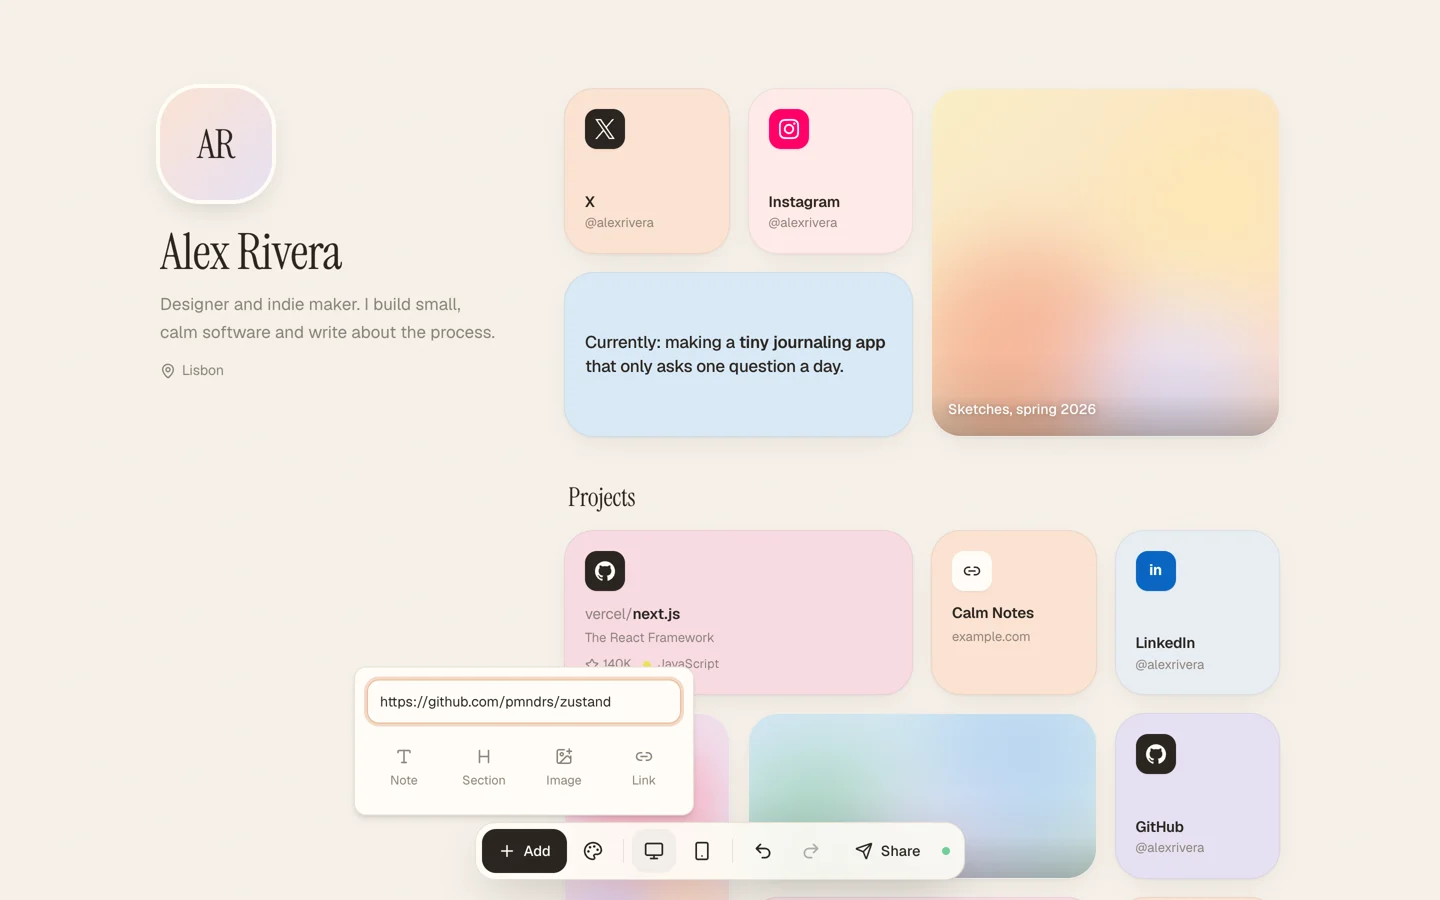
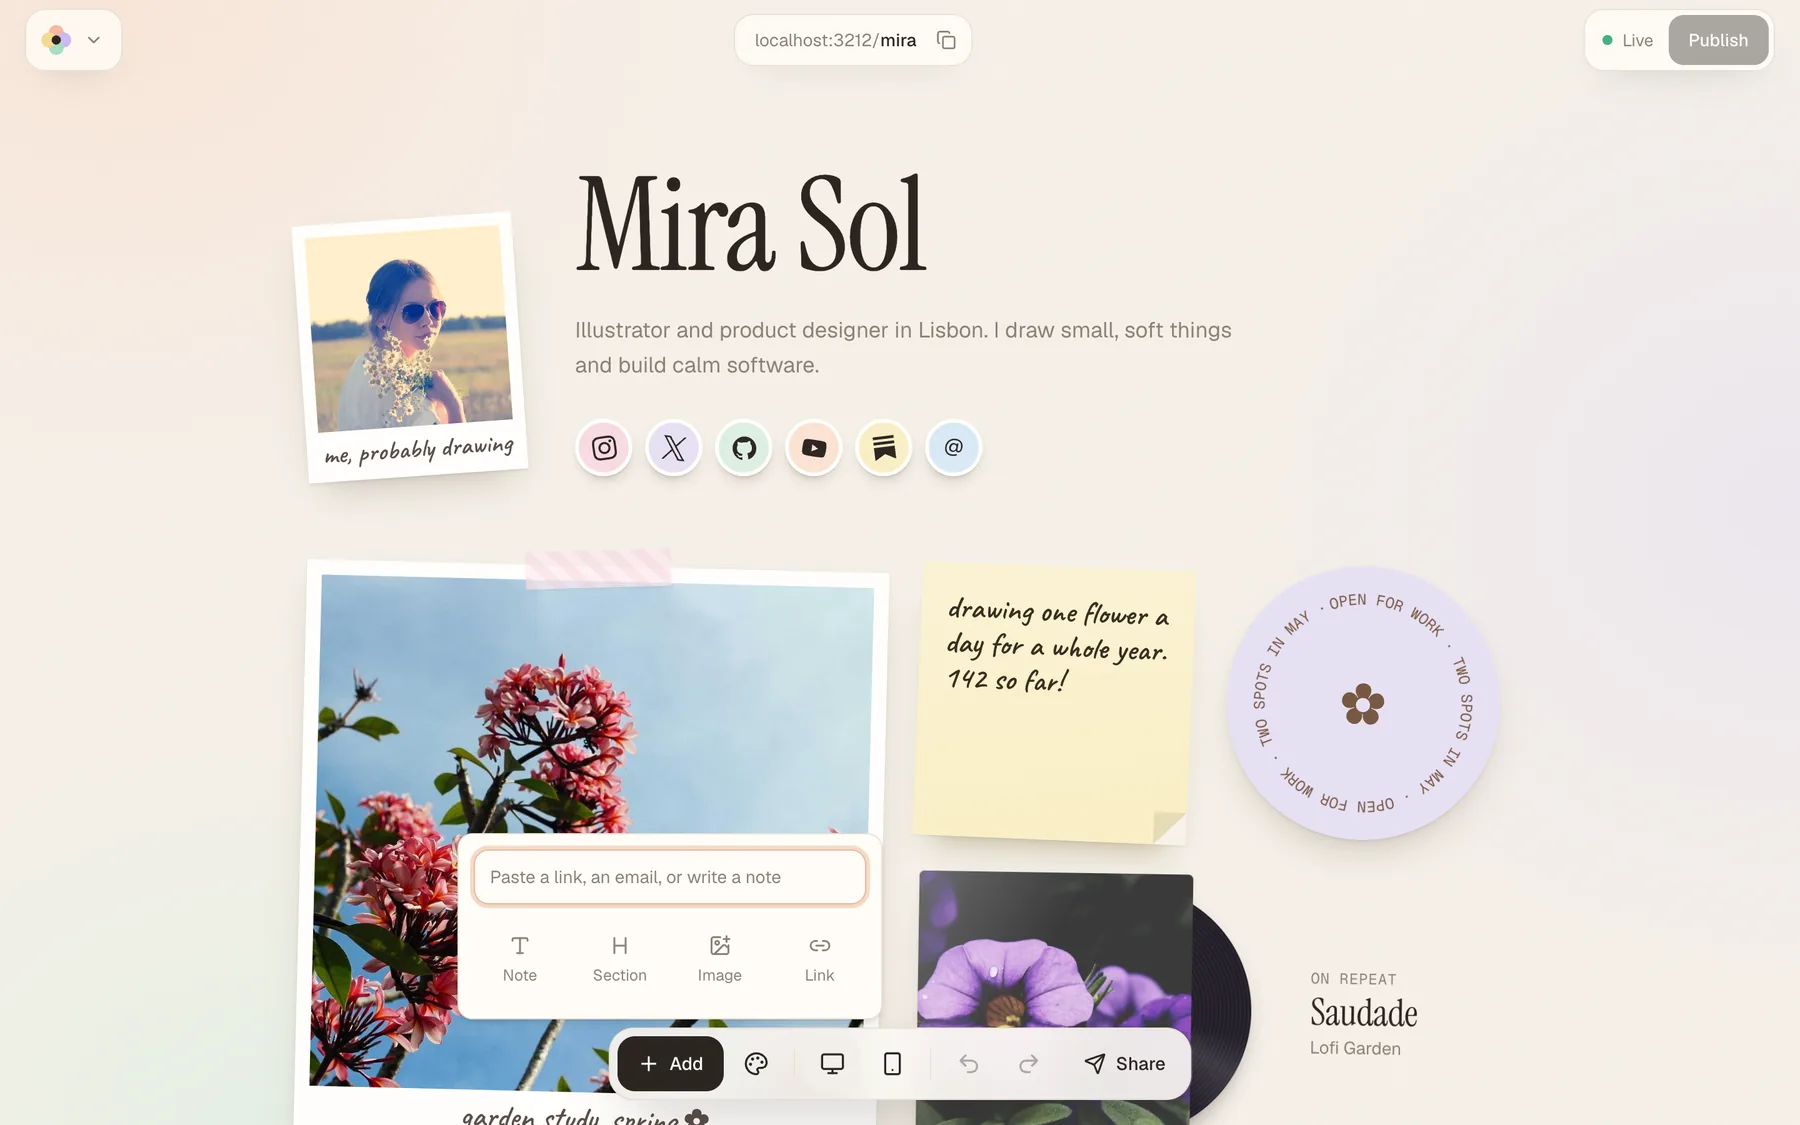
Refresh README screenshots with the desk design

diff --git a/README.md b/README.md
@@ -1,5 +1,5 @@
 <p align="center">
-  <img src="docs/media/hero.webp" alt="A Posy page: profile on the left, pastel tiles on the right" width="900">
+  <img src="docs/media/hero.webp" alt="A Posy desk page: a polaroid, a sticky note, a stamp and a record on a soft pastel desk" width="900">
 </p>
 
 <h1 align="center">Posy</h1>
@@ -20,7 +20,7 @@ and you can export your whole page as JSON at any time.
 - **Fast.** Server-rendered, works with JavaScript turned off, entrance animations in pure CSS.
 
 <p align="center">
-  <img src="docs/media/studio.webp" alt="The Posy studio with the theme panel open" width="900">
+  <img src="docs/media/studio.webp" alt="The Posy studio with the Design panel open" width="900">
 </p>
 
 ## Run it yourself
@@ -80,7 +80,7 @@ Dashboard pages: **Analytics** (views and clicks per tile), **Agents** (API keys
 **Settings** (change username, export your page as JSON, delete your account).
 
 <p align="center">
-  <img src="docs/media/add.webp" alt="Adding a tile by pasting a GitHub link" width="900">
+  <img src="docs/media/add.webp" alt="Adding a tile by pasting a link" width="900">
 </p>
 
 ## Themes
@@ -88,7 +88,7 @@ Dashboard pages: **Analytics** (views and clicks per tile), **Agents** (API keys
 Cream · Lavender · Mint · Sky · Peach · Paper · Blush · Sage · Midnight · Mocha · Dusk · Ocean, plus any accent colour, backgrounds, tile styles, hover effects and font pairs.
 
 <p align="center">
-  <img src="docs/media/themes.webp" alt="Posy themes" width="900">
+  <img src="docs/media/themes.webp" alt="The same desk page in cream, lavender, midnight and mint" width="900">
 </p>
 
 ## Tiles
